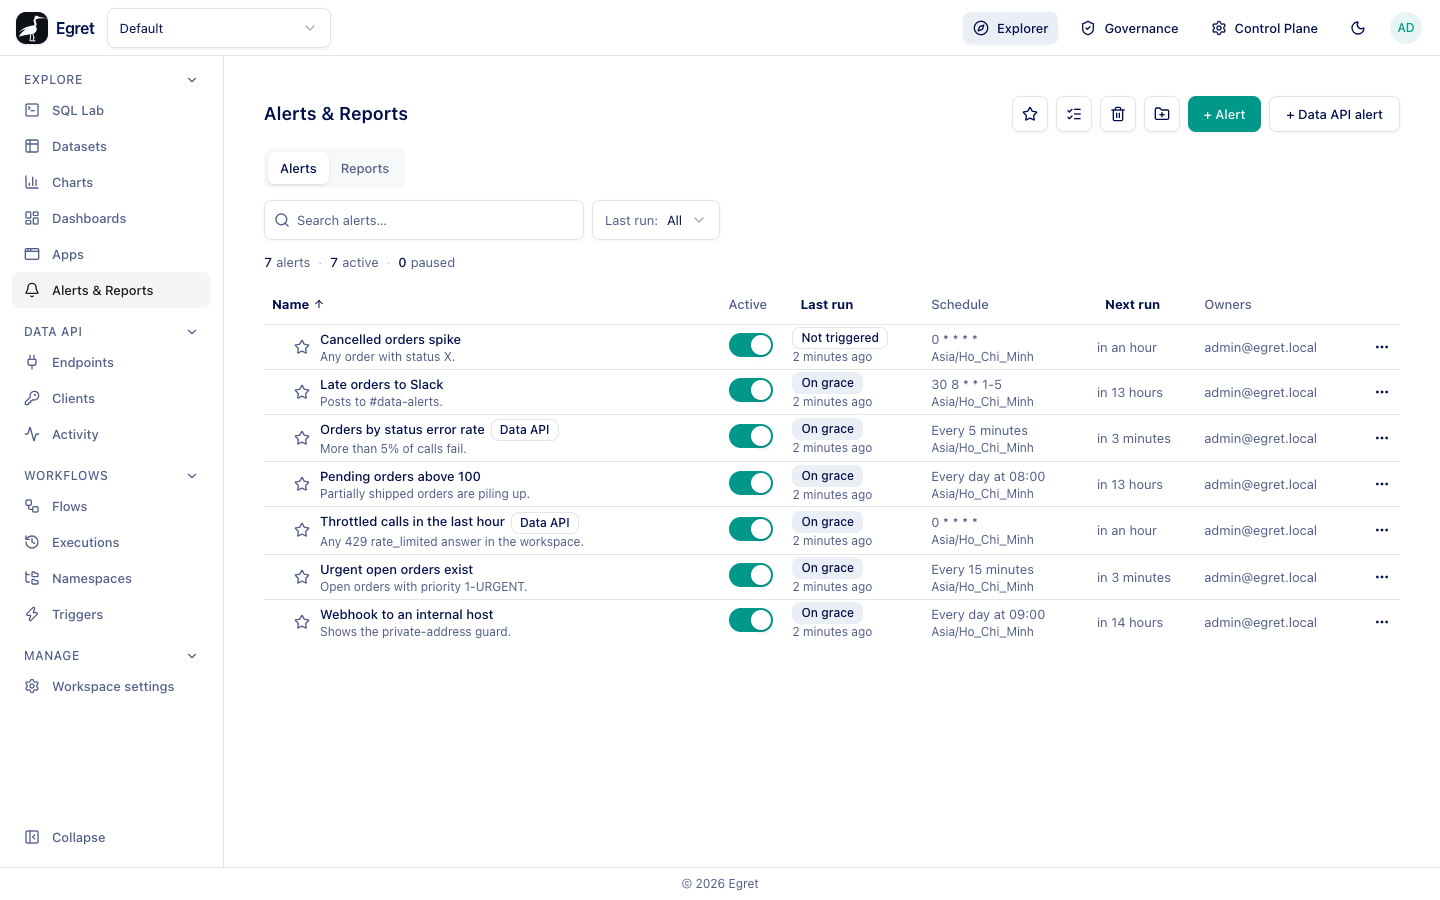
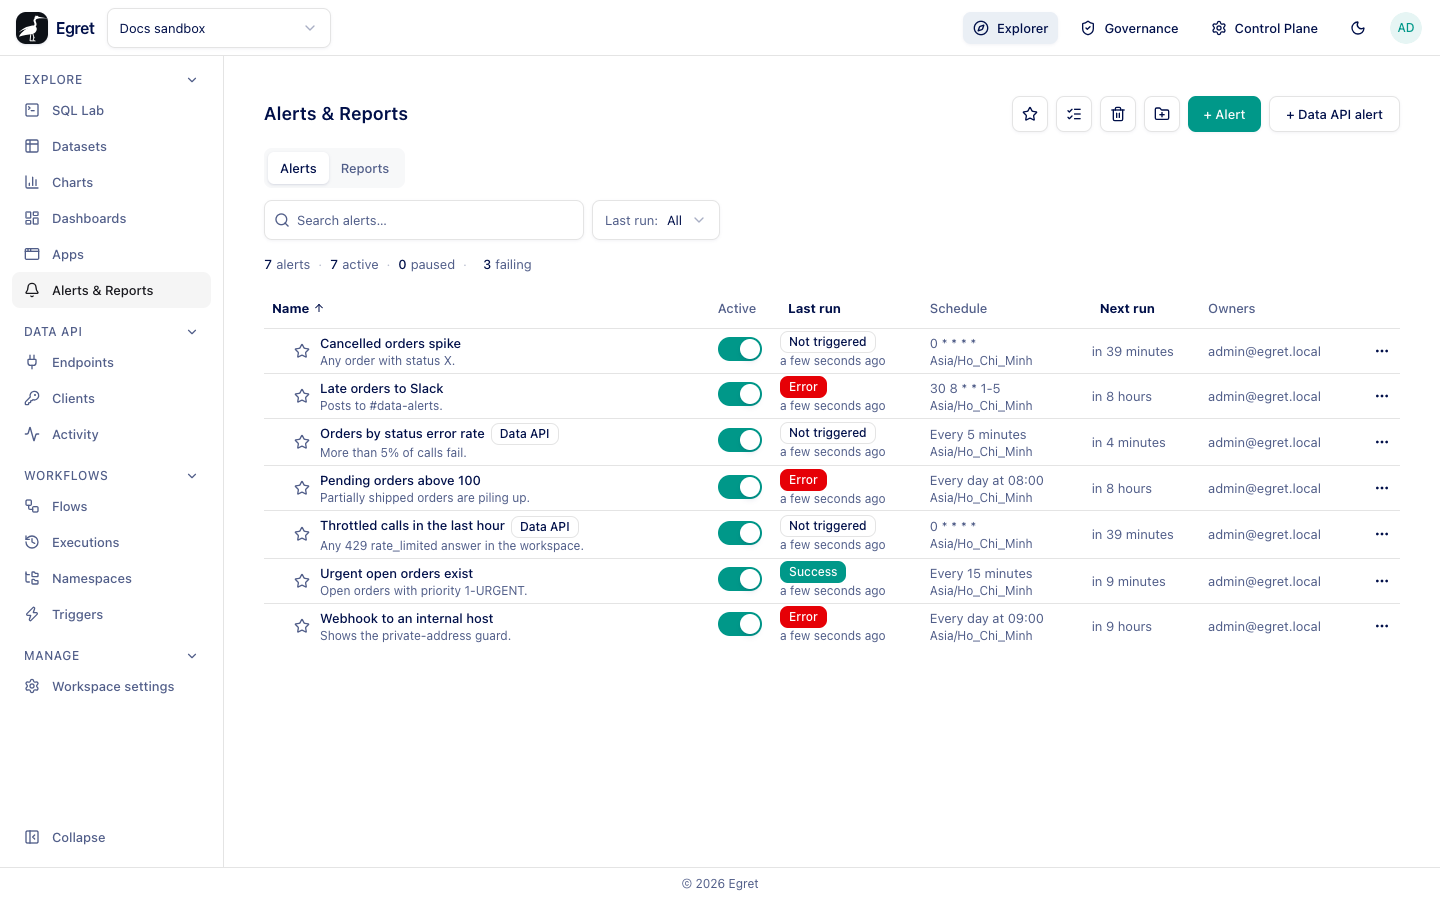
docs(screenshots): re-shoot after Wave 2 on a stack built from main
Re-shoot the B7, Wave 2, B4 and B6 screenshots that went stale, on the
demo stack built from platform main 4755bdcf. The Explore shots run in the
Docs sandbox workspace (DOCS_WS knob); the harness now resets the viewport
to 1440x900 before each shot so a tall shot no longer leaks into the next.
Three captions and the quoted roles banner follow the new images.

diff --git a/platform/workspace-settings/roles-and-permissions.md b/platform/workspace-settings/roles-and-permissions.md
@@ -6,9 +6,9 @@ sidebar_position: 3
 
 **Workspace settings → Access → Roles & permissions** shows what each workspace role can do in this workspace. It is a read-only view: roles are defined once for the whole platform and apply to every workspace.
 
-![The workspace Roles and permissions page with three built-in roles and two custom roles](/img/platform/admin/ws-roles.png)
+![The workspace Roles and permissions page with the three built-in roles and the custom roles, each with its permission count](/img/platform/admin/ws-roles.png)
 
-*Roles are defined platform-wide in Control Plane → Access control and apply to every workspace. This is a read-only view.*
+*Roles are defined platform-wide in Control Plane → Access control and apply to every workspace. This is a read-only view. The Control Plane also lists `data_api_invoker`: it is granted on one Data API endpoint, never as a workspace role, so it is not shown here.*
 
 ## The summary
 

diff --git a/platform/data-api/endpoints/publishing.md b/platform/data-api/endpoints/publishing.md
@@ -6,7 +6,7 @@ sidebar_position: 8
 
 Consumers never see your draft. They see a **version**: a frozen snapshot of the endpoint's contract (SQL, parameters, response settings, cache, limits and rate limit) taken when you press **Publish**. You can edit the draft as much as you like without affecting anyone, and go back to an earlier version in one click.
 
-![The Versions tab of Orders by status: v2 Live with a 1 breaking change badge over its note, and v1 with Roll back](/img/platform/data-api/endpoint-versions.png)
+![The Versions tab of Orders by status: v2 Live with a 1 breaking change badge beside its note, and v1 with Roll back](/img/platform/data-api/endpoint-versions.png)
 
 ## Publish an endpoint
 

diff --git a/platform/control-plane/access-control/users.md b/platform/control-plane/access-control/users.md
@@ -53,7 +53,7 @@ Prefer SSO for people. A local account has its own password and does not follow 
 
 Select a user to open their page. The header shows the avatar, name, status, provider and email, with **Disable** (or **Enable**) and **Delete**. A local account also has **Reset password**: *Set a new password for this local account. Their existing sessions are signed out immediately.*
 
-![The page of Farid Haddad: details, two platform roles and one group](/img/platform/admin/cp-user-detail.png)
+![The page of Farid Haddad: details, his directly granted platform role and one group](/img/platform/admin/cp-user-detail.png)
 
 ### Details
 
